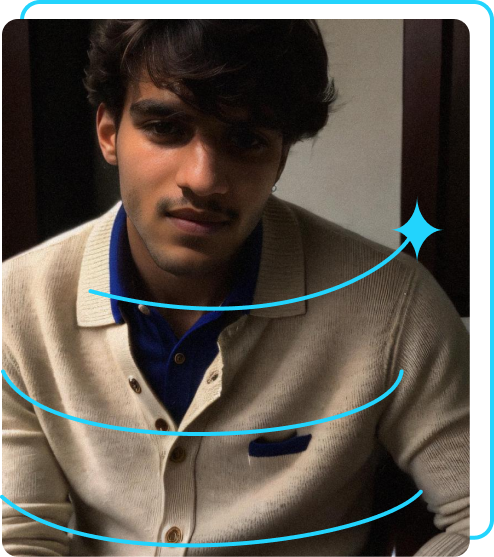
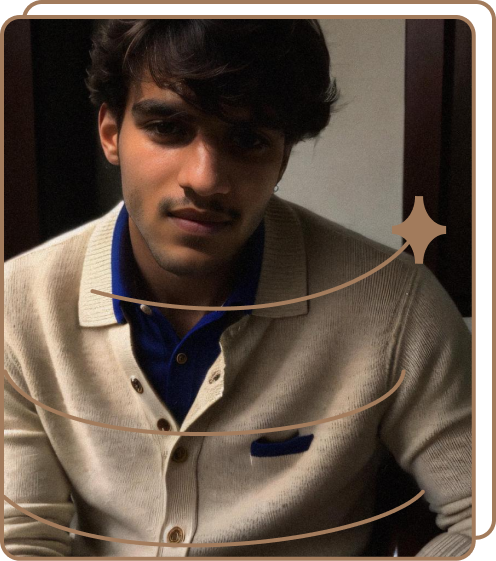
Refactor: mudança na paleta de cores, add: variáveis globais css de fonte e cores, criação da página 'sobre-mim'

diff --git a/styles/style.css b/styles/style.css
@@ -1,5 +1,15 @@
 @import url('https://fonts.googleapis.com/css2?family=Krona+One&family=Montserrat&display=swap');
 
+:root {
+    --cor-primaria: #2C3639;
+    --cor-secundaria: #DCD7C9;
+    --cor-terciaria: #A27B5C;
+    --cor-hover: #3F4E4F;
+
+    --fonte-primaria: 'Krona One', sans-serif;
+    --fonte-secundaria: 'Montserrat', sans-serif;
+}
+
 /* Reset.css */
 * {
     margin: 0px;
@@ -9,7 +19,7 @@
 body {
     /* height: 100vh; */
     box-sizing: border-box;
-    background-color: #000000;
+    background-color: var(--cor-primaria);
     color: #FFFFFF;
 }
 
@@ -23,10 +33,10 @@ body {
 }
 
 .cabecalho__menu__link {
-    font-family: 'Montserrat', sans-serif;
+    font-family: var(--fonte-secundaria);
     font-weight: 600;
     font-size: 24px;
-    color: #22D4FD;
+    color: var(--cor-terciaria);
     font-style: normal;
     text-decoration: none;
 }
@@ -46,18 +56,18 @@ body {
 }
 
 .principal__conteudo__titulo {
-    font-family: 'Krona One', sans-serif;
+    font-family: var(--fonte-primaria);
     font-weight: 400;
     font-style: normal;
     font-size: 36px;
 }
 
 .principal__conteudo__titulo-destaque {
-    color: #22D4FD;
+    color: var(--cor-terciaria);
 }
 
 .principal__conteudo__texto {
-    font-family: 'Montserrat', sans-serif;
+    font-family: var(--fonte-secundaria);
     font-weight: 400;
     font-size: normal;
     font-size: 24px;
@@ -72,16 +82,16 @@ body {
 }
 
 .principal__conteudo__botoes__subtitulo {
-    font-family: 'Krona One', sans-serif;
+    font-family: var(--fonte-primaria);
     font-weight: 400;
     font-size: 24px;
 }
 
 .principal__conteudo__botoes__botao {
-    font-family: 'Montserrat', sans-serif;
-    /* background-color: #22D4FD; */
-    color: #F6F6F6;
-    border: 2px solid #22D4FD;
+    font-family: var(--fonte-secundaria);
+    /* background-color: var(--cor-terciaria); */
+    color: var(--cor-secundaria);
+    border: 2px solid var(--cor-terciaria);
     width: 378px;
     text-align: center;
     border-radius: 8px;
@@ -97,15 +107,15 @@ body {
 }
 
 .principal__conteudo__botoes__botao:hover {
-    background-color: #272727;
+    background-color: var(--cor-hover);
     padding: 4%;
 }
 
 .rodape {
-    color: #000000;
-    background-color: #22D4FD;
+    color: var(--cor-primaria);
+    background-color: var(--cor-terciaria);
     text-align: center;
-    font-family: 'Montserrat', sans-serif;
+    font-family: var(--fonte-secundaria);
     font-weight: 400;
     font-style: normal;
     font-size: 24px;

diff --git a/html/sobre-mim.html b/html/sobre-mim.html
@@ -1,23 +1,43 @@
 <!DOCTYPE html>
 <html lang="pt-br">
+
 <head>
     <meta charset="UTF-8">
     <meta name="viewport" content="width=device-width, initial-scale=1.0">
     <link rel="stylesheet" href="/styles/style.css">
     <title>Sobre mim</title>
 </head>
+
 <body>
     <header class="cabecalho">
         <nav class="cabecalho__menu">
             <a class="cabecalho__menu__link" href="./index.html">Home</a>
             <a class="cabecalho__menu__link" href="./sobre-mim.html">Sobre mim</a>
+            <a href="./curriculo.html" class="cabecalho__menu__link">Currículo</a>
         </nav>
     </header>
     <main class="principal">
-        ...
+        <section class="principal__conteudo">
+            <h1 class="principal__conteudo__titulo">Sobre mim</h1>
+            <p class="principal__conteudo__texto">
+                Lorem ipsum dolor, sit amet consectetur adipisicing elit. Quam debitis beatae deleniti sunt eos aliquam
+                illo et, mollitia quia! Soluta pariatur unde accusantium fuga sunt illum corporis aliquid qui recusandae
+                numquam repellendus odio provident repellat dolorum quaerat dolores, veniam, impedit necessitatibus
+                ipsum veritatis facere aut. Aspernatur tenetur illo sequi animi.
+            </p>
+            <hr>
+            <p class="principal__conteudo__texto">
+                Lorem ipsum dolor, sit amet consectetur adipisicing elit. Quam debitis beatae deleniti sunt eos aliquam
+                illo et, mollitia quia! Soluta pariatur unde accusantium fuga sunt illum corporis aliquid qui recusandae
+                numquam repellendus odio provident repellat dolorum quaerat dolores, veniam, impedit necessitatibus
+                ipsum veritatis facere aut. Aspernatur tenetur illo sequi animi.
+            </p>
+        </section>
+        <img src="/assets/foto-portfolio.png" alt="Foto profissional de Fernando Flores">
     </main>
     <footer class="rodape">
         <p>Desenvolvido por Fernando Aurelius</p>
     </footer>
 </body>
+
 </html>

diff --git a/html/curriculo.html b/html/curriculo.html
@@ -11,6 +11,7 @@
         <nav class="cabecalho__menu">
             <a class="cabecalho__menu__link" href="./index.html">Home</a>
             <a class="cabecalho__menu__link" href="./sobre-mim.html">Sobre mim</a>
+            <a href="./curriculo.html" class="cabecalho__menu__link">Currículo</a>
         </nav>
     </header>
     <main class="principal">
